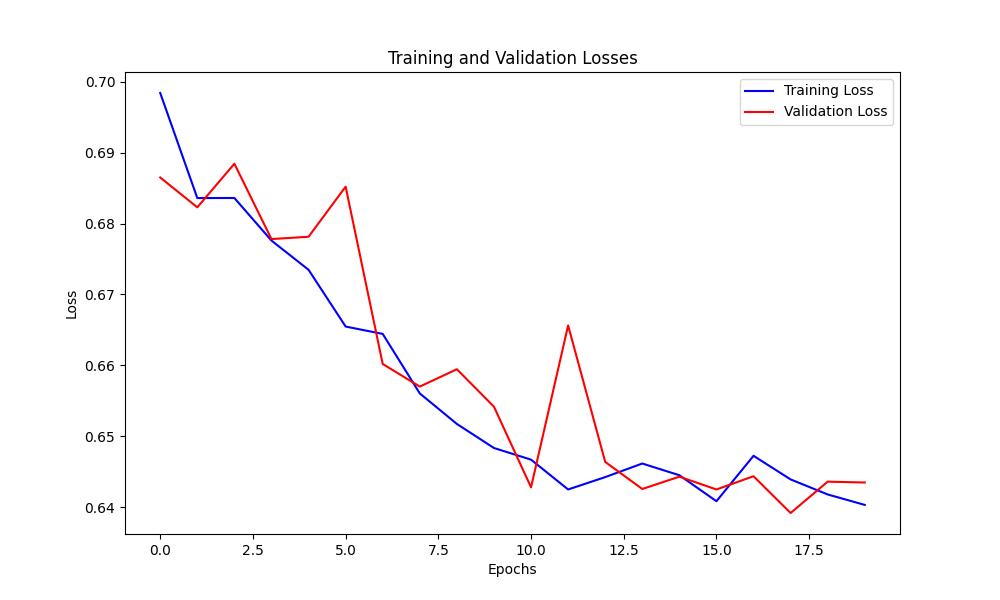
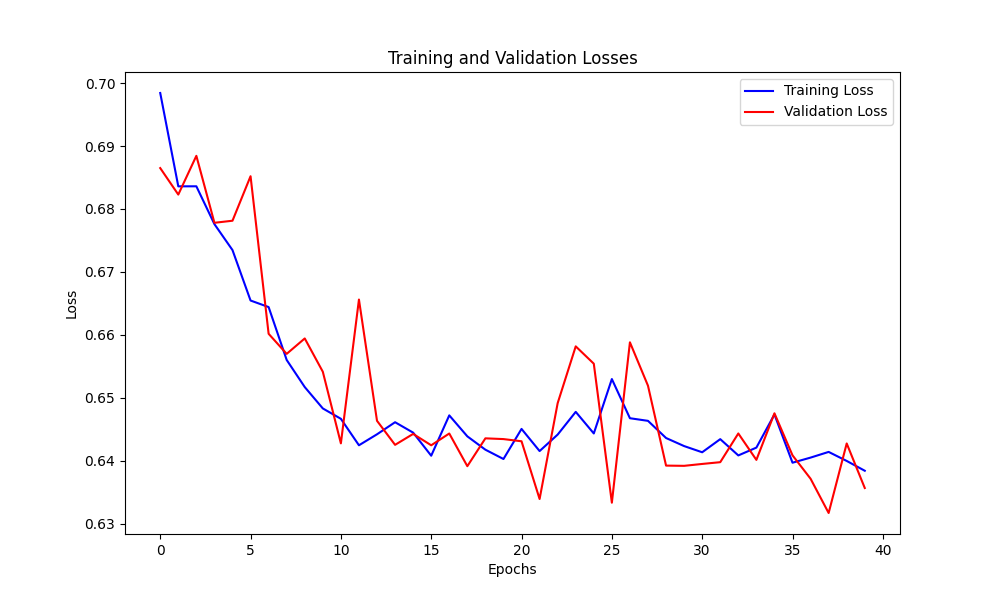
Train1.2

diff --git a/train_loop_mixup.py b/train_loop_mixup.py
@@ -227,7 +227,7 @@ if __name__ == '__main__':
     epochs = 10000
     lr = 0.001
     alpha = 0.4  # hyperparameter for the beta distribution
-    pseudo_size = 5  # The number of pseudo-bags in each WSI bag
+    pseudo_size = 3  # The number of pseudo-bags in each WSI bag
 
     # Paths
     #export_location = 'D:/DATA/CASBUSI/exports/export_09_28_2023/'
